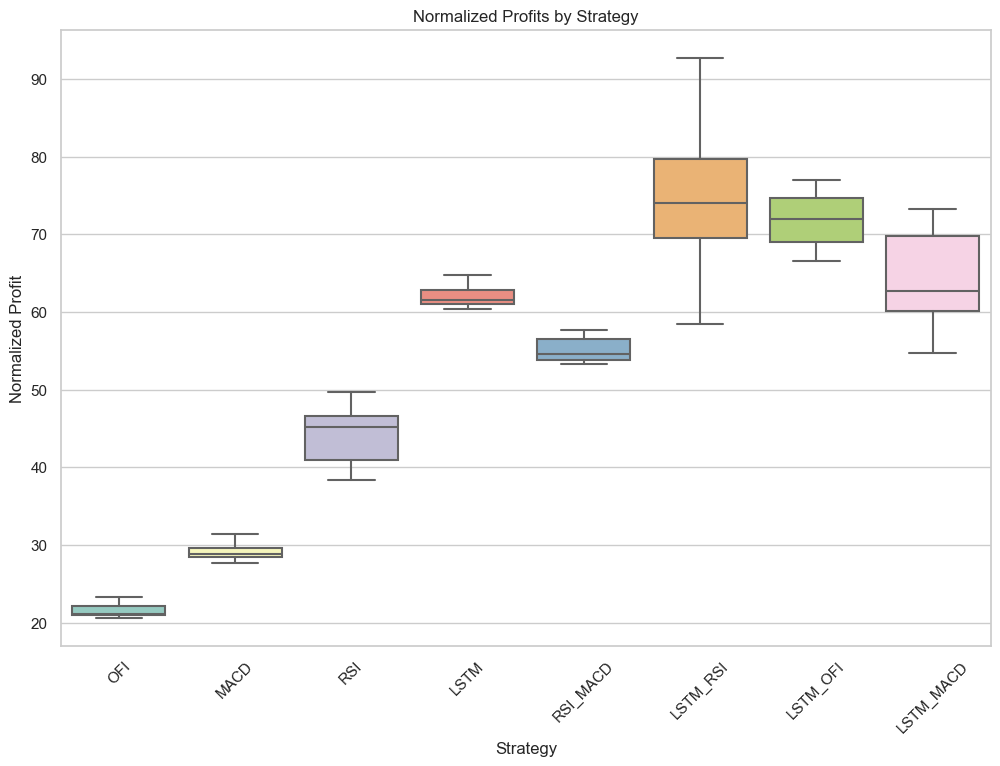
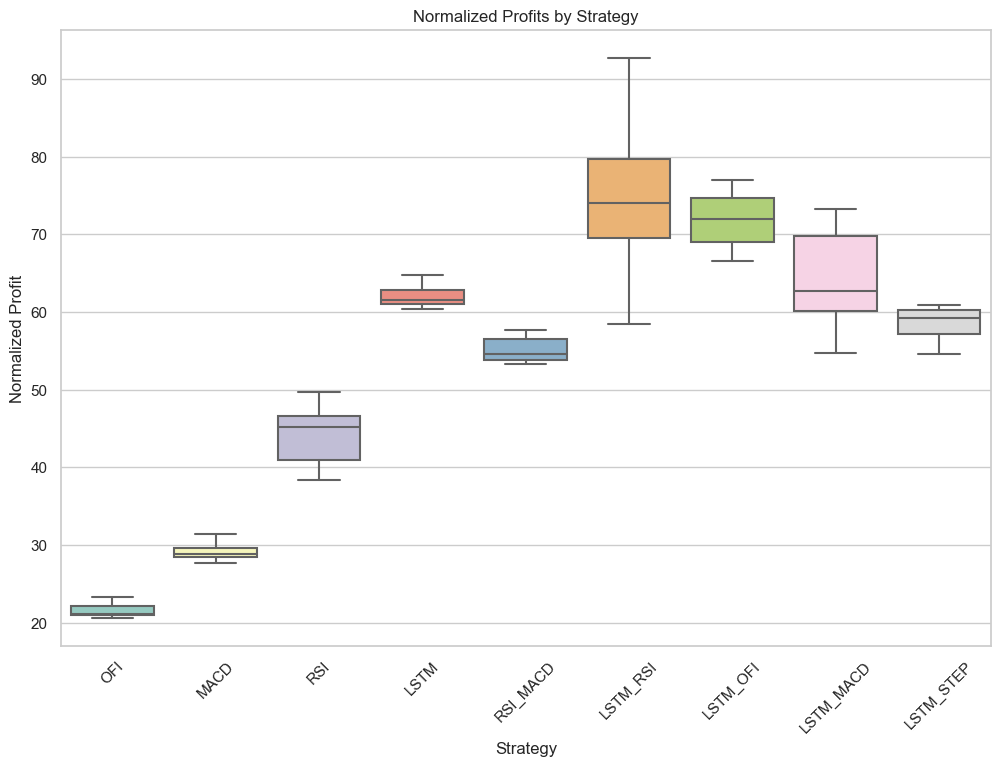
final box plot explanations

diff --git a/Final/Latex/Strategy_explain.md b/Final/Latex/Strategy_explain.md
@@ -236,4 +236,8 @@ Total Normalised daily profits 64.55
 Number of buys:  869
 Number of sells:  900
 
+## EXP9 LSTM Multi steps
+Buy strategy: when the model's predictions for the next 5 steps are all incremental
+Sell strategy: when the model's predictions for the next 5 steps are all decremental
+
 ![simulation_boxplot.png](..%2Ffigures%2Fsimulation_boxplot.png)
